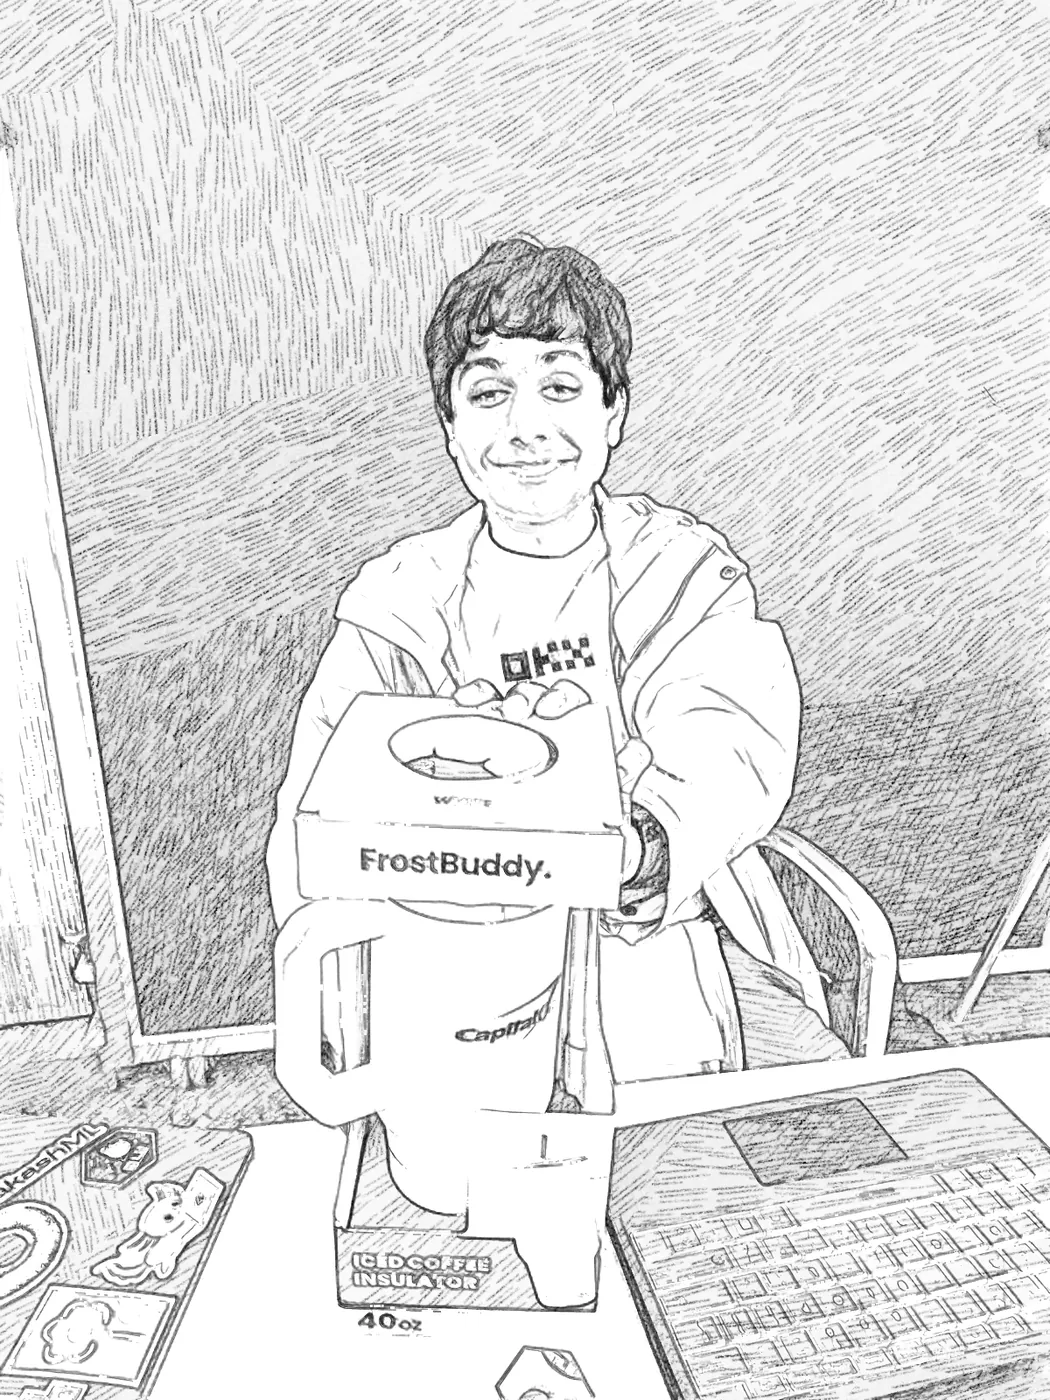
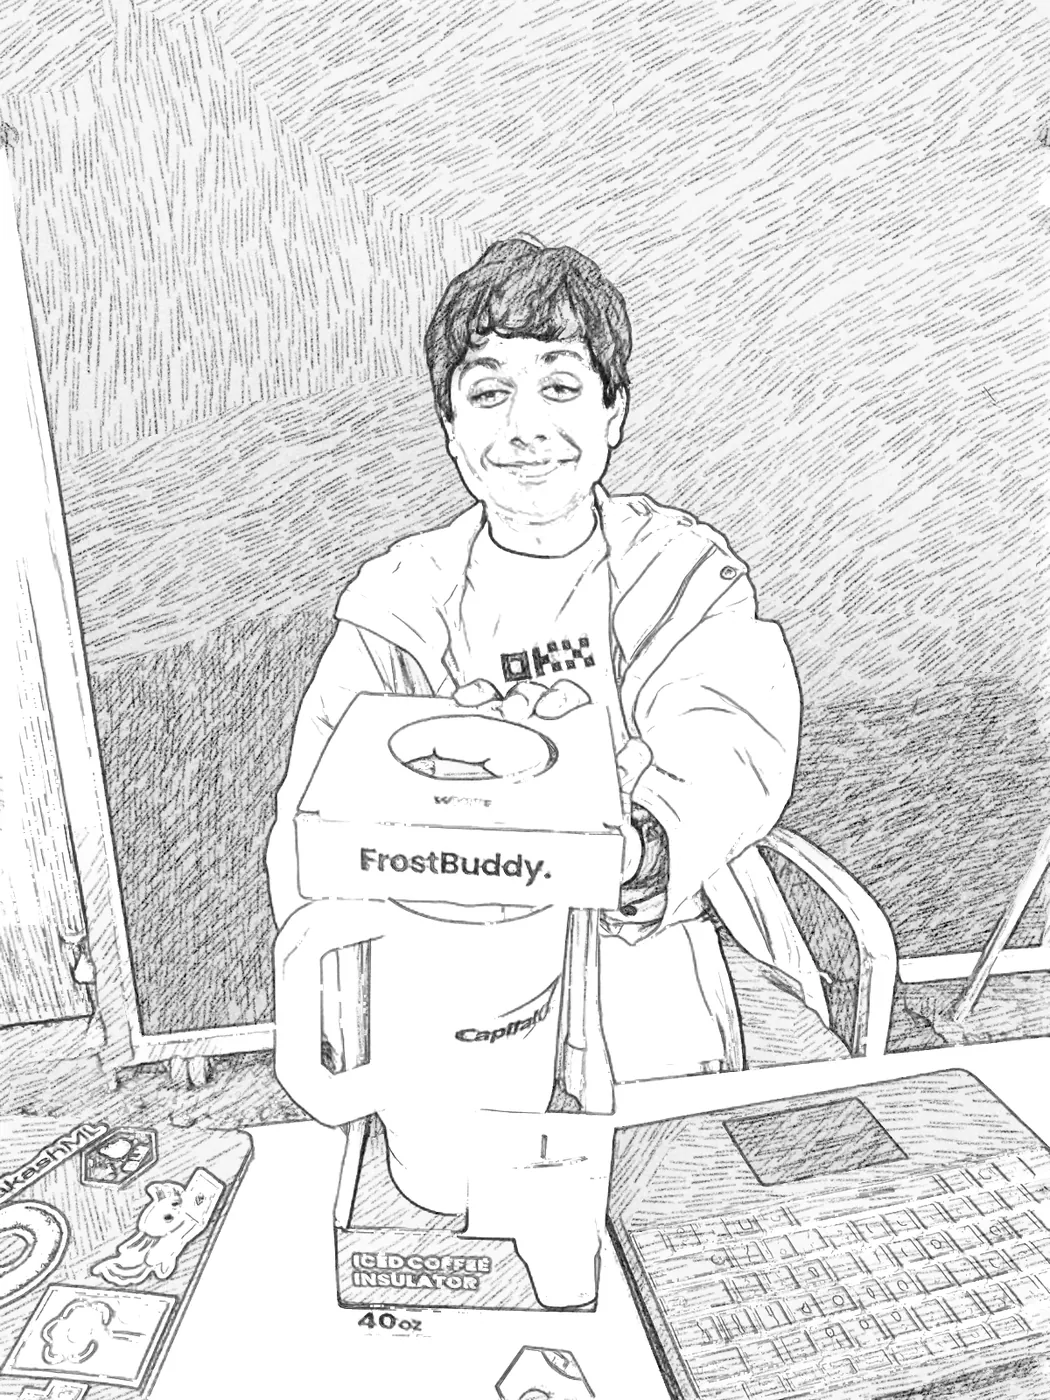
Pencil tool: tone the lips, and let shadows on skin fade instead of ending in an edge
A soft shadow across the chin came out as one flat patch whose edge ran
along the lower lip, while the lips themselves were left as bare paper
like the teeth. Skin is now shaded from a smoothed tone that starts
from nothing at the edge of each shape, with every skin shape stroked
the same way, and the lower lip takes a light tone of its own.

Redraw the portrait and the two SASH team pictures with it.

diff --git a/tools/manga/pencil.py b/tools/manga/pencil.py
@@ -30,6 +30,7 @@ import lineart
 from mangafy import EXTS, despeckle, flatten, load_rgb, remove_islands, save
 
 BAND_EDGES = (0.07, 0.30, 0.52, 0.76)  # relative darkness cuts; below the first is bare paper
+LIP_TONE = 0.24  # relative darkness given to lips: a light tone, enough to tell them from skin and teeth
 FACE_MODEL = Path(__file__).resolve().parent / "models" / "face_detection_yunet_2023mar.onnx"
 
 
@@ -77,7 +78,8 @@ def chroma(rgb):
 
 
 def find_faces(rgb, model):
-    """Boxes (x, y, w, h) of the faces in the photo. Faces too small to matter are not found."""
+    """The faces in the photo, each as (x, y, w, h) followed by five points: the eyes, the tip
+    of the nose and the two corners of the mouth. Faces too small to matter are not found."""
     if not Path(model).exists():
         print(f"note: no face detector at {model}; faces are shaded like everything else", flush=True)
         return []
@@ -86,7 +88,7 @@ def find_faces(rgb, model):
     small = cv2.resize(rgb, (round(w * s), round(h * s)), interpolation=cv2.INTER_AREA)
     det = cv2.FaceDetectorYN.create(str(model), "", (small.shape[1], small.shape[0]), 0.6, 0.3, 50)
     _, found = det.detect(cv2.cvtColor(small, cv2.COLOR_RGB2BGR))
-    return [] if found is None else [tuple(int(round(v / s)) for v in f[:4]) for f in found]
+    return [] if found is None else [tuple(int(round(v / s)) for v in f[:14]) for f in found]
 
 
 def skin_of(face, ab, light, scale):
@@ -96,7 +98,7 @@ def skin_of(face, ab, light, scale):
     The colour is measured from this face, so no assumption is made about skin tone."""
     a, b = ab
     h, w = a.shape
-    x, y, fw, fh = face
+    x, y, fw, fh = face[:4]
     core = (slice(max(y + 3 * fh // 10, 0), min(y + 3 * fh // 4, h)),
             slice(max(x + fw // 4, 0), min(x + 3 * fw // 4, w)))
     if a[core].size == 0:
@@ -121,6 +123,31 @@ def skin_of(face, ab, light, scale):
     skin = lab == inside.argmax()
     region = ndimage.binary_fill_holes(cv2.morphologyEx(skin.astype(np.uint8), cv2.MORPH_CLOSE, disc(9)) > 0)
     return region, skin
+
+
+def lips_of(face, ab, light, skin, scale):
+    """How much each pixel is lip, 0..1: just below the mouth line and redder than this person's skin.
+    In grey a lip is often no darker than the skin beside it, so without this the lips are
+    left as bare paper and cannot be told from the teeth. Teeth are not red, so they stay out."""
+    a, _ = ab
+    h, w = a.shape
+    (x1, y1), (x2, y2) = face[10:12], face[12:14]
+    wide = float(np.hypot(x2 - x1, y2 - y1))
+    if wide < 12 or not skin.any():
+        return None
+    cx, cy, ux, uy = (x1 + x2) / 2, (y1 + y2) / 2, (x2 - x1) / wide, (y2 - y1) / wide
+    yy, xx = np.mgrid[0:h, 0:w].astype(np.float32)
+    along, across = (xx - cx) * ux + (yy - cy) * uy, (yy - cy) * ux - (xx - cx) * uy
+    nx, ny = face[8:10]
+    if (ny - cy) * ux - (nx - cx) * uy > 0:  # make "across" negative towards the nose
+        across = -across
+    # Only below the line between the corners, which is the lower lip (and, in a smile, both).
+    # Red above that line is as often skin (a graze, a flushed nose) as upper lip, and toning
+    # it draws a moustache; an upper lip dark enough to matter already carries its own tone.
+    zone = ((along / (0.70 * wide)) ** 2 + (across / (0.46 * wide)) ** 2 < 1) & (across > 0)
+    a0, l0 = np.median(a[skin]), np.median(light[skin])
+    lip = smooth((a - a0 - 2.5) / 6.0) * zone * (light > 0.35 * l0)
+    return cv2.GaussianBlur(lip.astype(np.float32), (0, 0), 1.5 * scale)
 
 
 def skin_tone(rel, region, skin, keep):
@@ -279,10 +306,13 @@ def flow_angle(rgb, labels, n, default):
     return default + delta * smooth((coherence - 0.22) / 0.28)
 
 
-def hatch(rgb, d, labels, scale, angle, rng, groups=None, soft=None, steady=False):
+def hatch(rgb, d, labels, scale, angle, rng, groups=None, soft=None, steady=False, floor=0.03):
     """Shade every shape: spacing, pressure and number of passes follow the shape's tone.
     Shapes inside `soft` (skin) are put in with finer, lighter strokes over more smudged
-    tone, so they read as smooth shading rather than as hatching."""
+    tone, so they read as smooth shading rather than as hatching. Their tone also fades in
+    from nothing at the edge of the shape (`floor` is the tone at that edge) and all of them
+    are stroked the same way, so a shadow on a face is a gradient, not a flat patch with an
+    outline."""
     h, w = d.shape
     n = int(labels.max()) + 1
     ids = np.arange(n)
@@ -301,16 +331,19 @@ def hatch(rgb, d, labels, scale, angle, rng, groups=None, soft=None, steady=Fals
     gentle = np.zeros(n, np.float32)
     if soft is not None:
         gentle = (np.bincount(labels.ravel(), weights=soft.ravel(), minlength=n) / count > 0.5).astype(np.float32)
+    base = np.where(gentle > 0, np.deg2rad(angle), base)
+    cross2 = np.where(gentle > 0, 0.5, rnd(ids, 22))
+    cross3 = np.where(gentle > 0, 0.5, rnd(ids, 23))
     passes = [
         (base,
          (8.5 - 5.0 * np.clip(D / 0.7, 0, 1) ** 0.8) * scale,
          (0.22 + 0.38 * D) * (D > 0.02),
          56),
-        (base + np.deg2rad(38 + 24 * (rnd(ids, 22) - 0.5)),
+        (base + np.deg2rad(38 + 24 * (cross2 - 0.5)),
          (8.0 - 4.2 * np.clip((D - 0.30) / 0.5, 0, 1)) * scale,
          (0.20 + 0.32 * D) * (D > 0.30),
          46),
-        (base - np.deg2rad(30 + 10 * (rnd(ids, 23) - 0.5)),
+        (base - np.deg2rad(30 + 10 * (cross3 - 0.5)),
          (6.0 - 2.5 * np.clip((D - 0.55) / 0.4, 0, 1)) * scale,
          (0.26 + 0.28 * D) * (D > 0.55),
          38),
@@ -321,7 +354,15 @@ def hatch(rgb, d, labels, scale, angle, rng, groups=None, soft=None, steady=Fals
     tooth = cv2.GaussianBlur(rng.random((h, w)).astype(np.float32), (0, 0), 0.6 * scale)
     tooth = np.clip(1 + 0.42 * (tooth - tooth.mean()) / (tooth.std() + 1e-6), 0.25, 1.6)
     smudge = 0.28 + 0.44 * gentle[labels]
-    keep = 1 - smudge * d * (labels > 0)  # smudged graphite under the strokes
+    under = d
+    if gentle.any():  # skin: tone taken from its surroundings, fading in from the edge of the shape
+        skin = (soft > 0.5).astype(np.float32)
+        near = cv2.GaussianBlur(d * skin, (0, 0), 7 * scale) / np.maximum(cv2.GaussianBlur(skin, (0, 0), 7 * scale), 1e-3)
+        fade = smooth((near - 0.6 * floor) / (2.4 * floor))
+        on_skin = gentle[labels] > 0
+        local = np.where(on_skin, np.clip(near / np.maximum(D[labels], 1e-3), 0, 1.35) * fade, local)
+        under = np.where(on_skin, near * fade, d)
+    keep = 1 - smudge * under * (labels > 0)  # smudged graphite under the strokes
     for i, (theta, spacing, pressure, length) in enumerate(passes):
         spacing, pressure = spacing * (1 - 0.30 * gentle), pressure * (1 - 0.66 * gentle)
         ell = (length * scale * (0.85 + 0.4 * rnd(ids, 30 + i))).astype(np.float32)
@@ -381,6 +422,10 @@ def render(rgb, args):
         if found is not None:
             region, skin = found
             rel = skin_tone(rel, region, skin, float(np.clip(args.skin, 0, 0.95)))
+            lips = lips_of(box, (a, b), light, skin, scale)
+            if lips is not None:
+                rel = np.maximum(rel, LIP_TONE * lips)
+                region = region | (lips > 0.3)
             face |= region
     d = (rel * args.shade).astype(np.float32)
     if args.color_edges > 0:
@@ -395,7 +440,8 @@ def render(rgb, args):
     line_dark = (1 - line) ** 0.85 * args.line_weight
 
     labels = shapes(rel, line, scale, float(np.clip(args.edges, 0, 1)), groups)
-    tone_dark = hatch(rgb, d, labels, scale, args.angle, rng, groups, face.astype(np.float32), args.steady)
+    tone_dark = hatch(rgb, d, labels, scale, args.angle, rng, groups, face.astype(np.float32), args.steady,
+                      BAND_EDGES[0] * args.shade)
 
     dark = 1 - (1 - tone_dark * grain) * (1 - line_dark * (0.85 + 0.15 * grain))
     return np.clip(dark, 0, 1), labels, face
